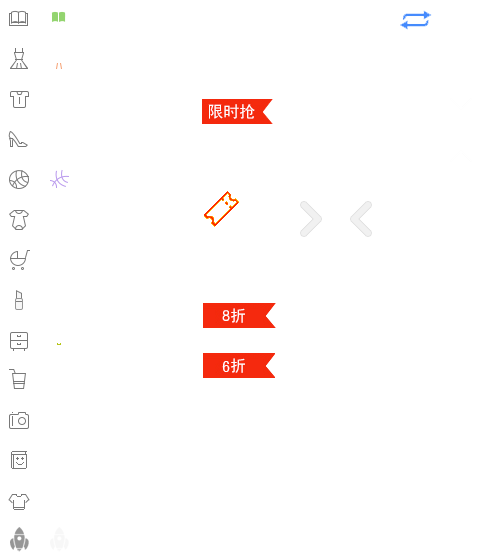
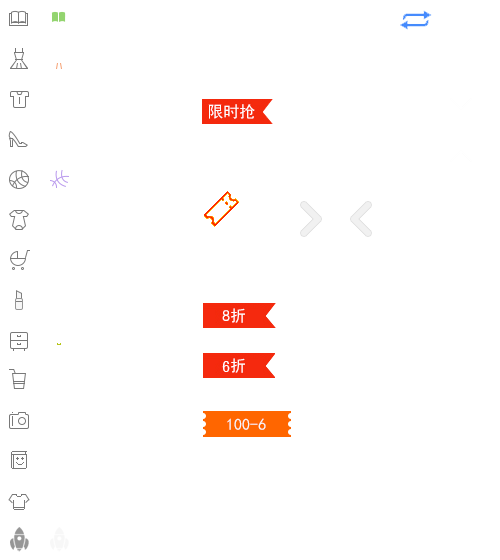
完成部分产品细节页面

Changed region(s): [[0.39, 0.7286, 0.6, 0.7893]]

diff --git a/OnlineStoreProject/styles/productDetail.css b/OnlineStoreProject/styles/productDetail.css
@@ -115,3 +115,105 @@
     text-align: center;
     color: #666;
 }
+
+
+/* bookIntro rightIntro area */
+
+.bookIntro .rightIntro {
+    width: 786px;
+    margin-right: 30px;
+}
+
+.bookIntro .rightIntro .bookTitle {
+    font-size: 22px;
+    line-height: 60px;
+    padding-top: 30px;
+}
+
+.bookIntro .rightIntro .bookDescribe {
+    font-size: 18px;
+    line-height: 28px;
+    color: #fb2f2f;
+}
+
+.bookIntro .rightIntro .author {
+    font-size: 16px;
+    line-height: 28px;
+    color: #a6a6a6;
+}
+
+.bookIntro .rightIntro .priceMsg {
+    height: 120px;
+    background: #f5f5f5;
+    padding: 10px;
+    position: relative;
+}
+
+.bookIntro .rightIntro .priceMsg p {
+    color: #6c6c6c;
+    font-size: 16px;
+}
+
+.rightIntro .priceMsg .price {
+    letter-spacing: 4px;
+}
+
+.rightIntro .priceMsg .price .truePrice {
+    font-size: 24px;
+    color: red;
+}
+
+.rightIntro .priceMsg .price .priceBefore {
+    font-size: 16px;
+    text-decoration: line-through;
+}
+
+.rightIntro .priceMsg .discountMsg {
+    letter-spacing: 2px;
+    padding-top: 6px;
+    line-height: 30px;
+}
+
+.rightIntro .priceMsg .discountMsg .red {
+    font-size: 16px;
+    color: red;
+}
+
+.rightIntro .priceMsg .getTicket {
+    padding-top: 20px;
+}
+
+.rightIntro .priceMsg .getTicket .title {
+    float: left;
+    font-size: 16px;
+    letter-spacing: 2px;
+    padding-right: 20px;
+}
+
+.rightIntro .priceMsg .getTicket .ticket {
+    display: block;
+    float: left;
+    margin-right: 20px;
+    width: 90px;
+    height: 26px;
+    background: url(../images/icon_shop.png) -203px -411px;
+}
+
+.rightIntro .priceMsg .totalEvaluate {
+    position: absolute;
+    display: block;
+    right: 0;
+    top: 0;
+    width: 74px;
+    height: 40px;
+    font-size: 14px;
+    margin: 10px;
+    padding-left: 10px;
+    text-align: center;
+    border-left: 2px solid #6c6c6c;
+}
+
+.rightIntro .priceMsg .totalEvaluate .red {
+    color: red;
+    font-size: 14px;
+}

diff --git a/OnlineStoreProject/productDetail.html b/OnlineStoreProject/productDetail.html
@@ -1547,7 +1547,7 @@
         </div>
         <!-- 图书详情页 -->
         <div class="width1200 bookIntroContent">
-            <div class="sidePic">
+            <div class="sidePic fl">
                 <div class="bigPic">
                     <img src="images/taheta.jpg" alt="">
                 </div>
@@ -1559,8 +1559,23 @@
                     <p>商品编号:11950959</p>
                 </div>
             </div>
-            <div class="rightIntro">
+            <div class="rightIntro fr">
+                <p class="bookTitle">他和她</p>
+                <p class="bookDescribe">《偷影子的人》作者马克·李维重磅新作，法国连续60周在榜，销量突破120万册</p>
+                <p class="author">[法] 马克·李维 著；杨亦雨 译</p>
+                <div class="priceMsg">
+                    <p class="totalEvaluate"> <a href="">累计评价<br> <span class="red">999999</span> </a> </p>
+                    <p class="price">乐&nbsp;购&nbsp;价: &nbsp;&yen;<span class="truePrice">26.20</span>&nbsp;[6.9折]&nbsp;[定价:&yen; <span class="priceBefore">38.00</span> ]&nbsp;(降价通知)</p>
+                    <p class="discountMsg">促销信息：<span class="red">满减 每满150.00元，可减50.00元现金</span> <a href="">详情 &gt;&gt;</a> </p>
+                    <p class="getTicket"> <span class="title">领&nbsp;券:</span> <a href=""><span class="ticket"></span></a>
+                        <a href=""> <span class="ticket"></span></a>
+                    </p>
 
+                </div>
+                <div class="chooseType">
+                    <p>种类选择: <span class="simpleVersion">平装版</span><span class="delicateVersion">精装版</span> </p>
+
+                </div>
             </div>
         </div>
     </div>

diff --git a/OnlineStoreProject/styles/public.css b/OnlineStoreProject/styles/public.css
@@ -4,6 +4,7 @@
 
 * {
     font-size: 12px;
+    font-family: 'Microsoft YaHei', Arial, sans-serif;
     margin: 0;
     padding: 0;
 }
